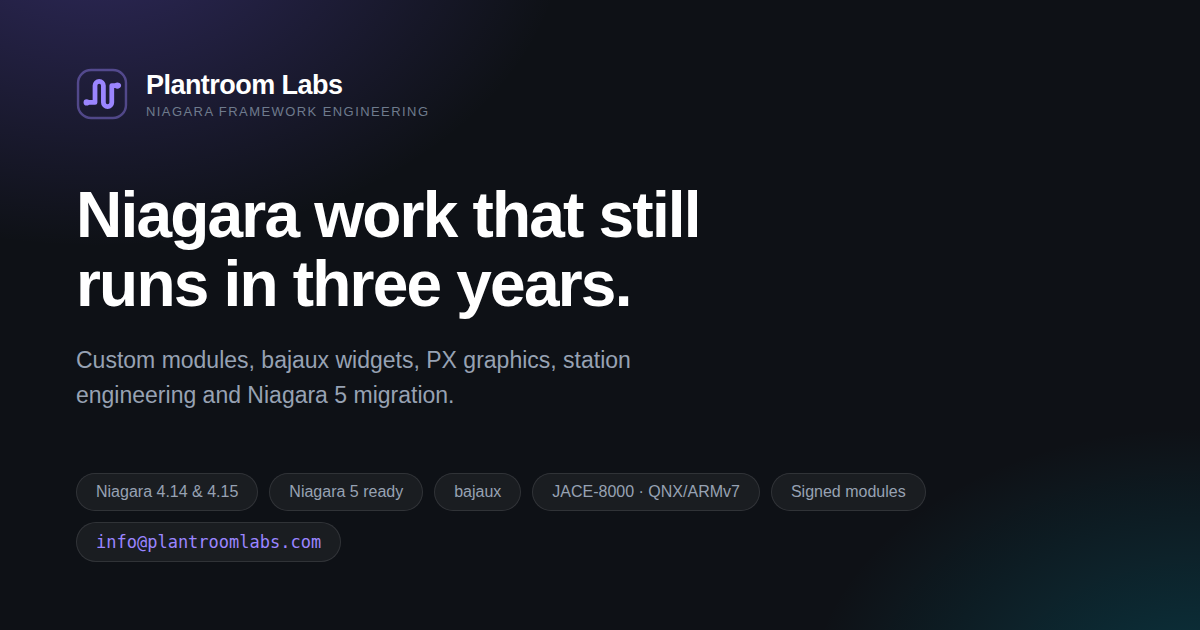
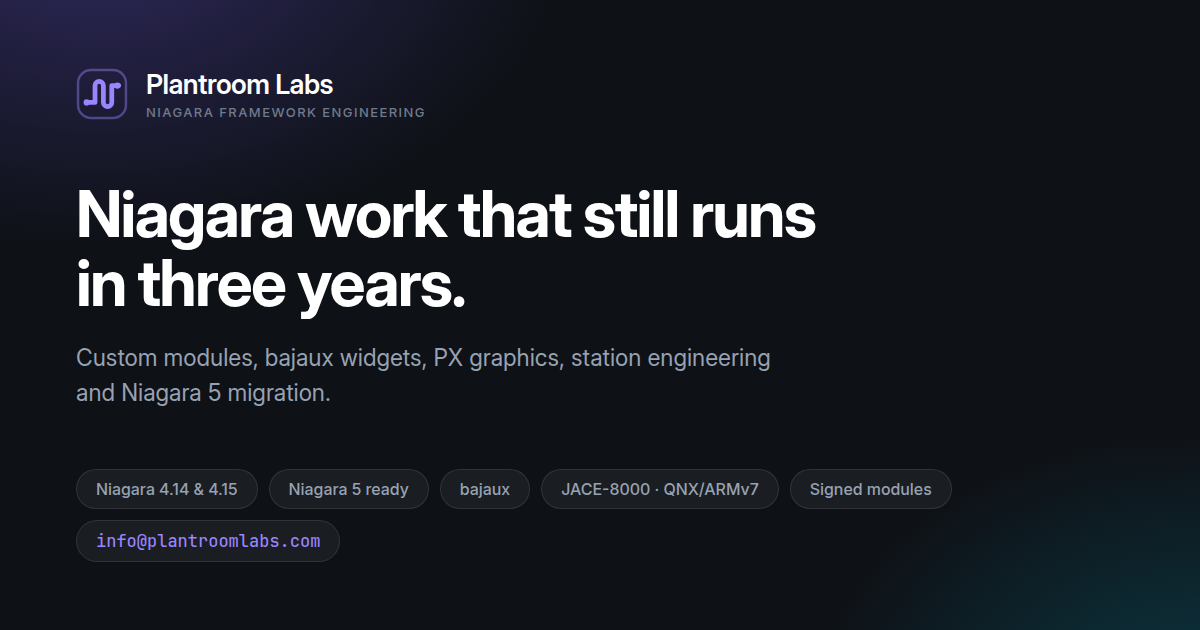
Render the social card in Inter instead of a fallback
The og-card template still pulled Inter and JetBrains Mono from
fonts.googleapis.com, left behind when the site itself moved to
self-hosted woff2. The card is screenshotted offline, so that request
was not always answered — and when it is not, Chrome silently falls
back to a system sans and the screenshot succeeds anyway.

It had already happened: the shipped assets/og.png was rendered in a
fallback grotesque, so every LinkedIn, Slack and Twitter share showed
the brand in the wrong typeface. Nothing surfaced it, because there is
no failure mode here other than looking wrong.

The card now points at the same self-hosted files the site uses, by
relative path, with font-display:block so a screenshot can never
capture a fallback. og.png is re-rendered from it and losslessly
optimised (134 KB -> 125 KB), and build.py now prints the render
command, since that step is manual and easy to forget.

diff --git a/assets/og-card.html b/assets/og-card.html
@@ -1,7 +1,9 @@
 <!DOCTYPE html><html><head><meta charset="utf-8">
-<link rel="preconnect" href="https://fonts.gstatic.com" crossorigin>
-<link rel="stylesheet" href="https://fonts.googleapis.com/css2?family=Inter:wght@400;500;600;700&family=JetBrains+Mono:wght@500&display=swap">
 <style>
+ @font-face{font-family:Inter;src:url(fonts/inter-var.woff2)format('woff2');
+   font-weight:100 900;font-display:block}
+ @font-face{font-family:'JetBrains Mono';src:url(fonts/jetbrains-mono-var.woff2)format('woff2');
+   font-weight:100 800;font-display:block}
  *{box-sizing:border-box;margin:0}
  body{width:1200px;height:630px;background:#0e1116;color:#fff;overflow:hidden;position:relative;
    font-family:Inter,sans-serif;-webkit-font-smoothing:antialiased;display:flex;

diff --git a/build.py b/build.py
@@ -1729,11 +1729,20 @@ def build_mark():
 
 
 def build_og_card():
-    """The 1200x630 social card, as HTML so it can be screenshotted by Chrome."""
+    """The 1200x630 social card, as HTML so it can be screenshotted by Chrome.
+
+    The fonts are the same self-hosted woff2 files the site itself uses, by
+    relative path — this file sits in assets/ alongside fonts/. It used to
+    pull them from fonts.googleapis.com, which made rendering the card depend
+    on network access: offline, or behind a blocked request, Chrome fell back
+    to a system sans and produced a wrong-looking brand image with no error.
+    Nothing warns you, because a screenshot always succeeds."""
     card = f'''<!DOCTYPE html><html><head><meta charset="utf-8">
-<link rel="preconnect" href="https://fonts.gstatic.com" crossorigin>
-<link rel="stylesheet" href="https://fonts.googleapis.com/css2?family=Inter:wght@400;500;600;700&family=JetBrains+Mono:wght@500&display=swap">
 <style>
+ @font-face{{font-family:Inter;src:url(fonts/inter-var.woff2)format('woff2');
+   font-weight:100 900;font-display:block}}
+ @font-face{{font-family:'JetBrains Mono';src:url(fonts/jetbrains-mono-var.woff2)format('woff2');
+   font-weight:100 800;font-display:block}}
  *{{box-sizing:border-box;margin:0}}
  body{{width:1200px;height:630px;background:#0e1116;color:#fff;overflow:hidden;position:relative;
    font-family:Inter,sans-serif;-webkit-font-smoothing:antialiased;display:flex;
@@ -1877,6 +1886,11 @@ def main():
     print("\n  robots.txt  sitemap.xml  llms.txt  assets/mark.svg  assets/og-card.html")
     if cname:
         print(f"  CNAME -> {cname}")
+    print("\n  assets/og.png is NOT rebuilt here — og-card.html has to be")
+    print("  screenshotted at exactly 1200x630 after any change to the card:")
+    print("    chrome --headless --screenshot=assets/og.png --window-size=1200,630 \\")
+    print("      --hide-scrollbars assets/og-card.html")
+    print("  Check the result is in Inter, not a fallback. It renders either way.")
 
 
 if __name__ == "__main__":
